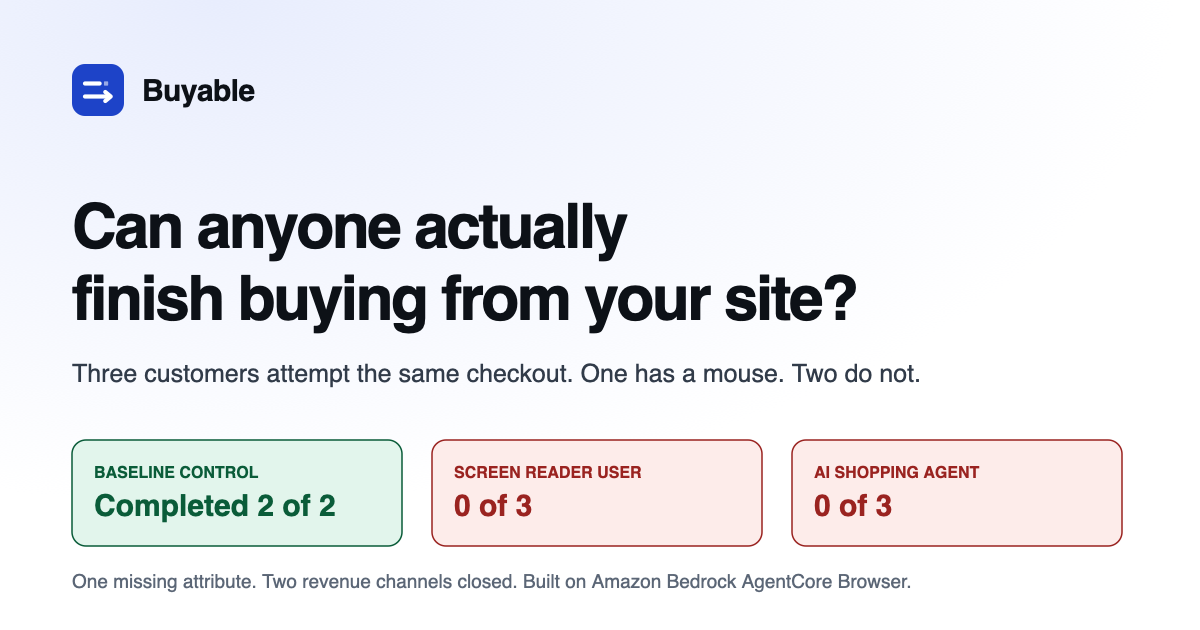
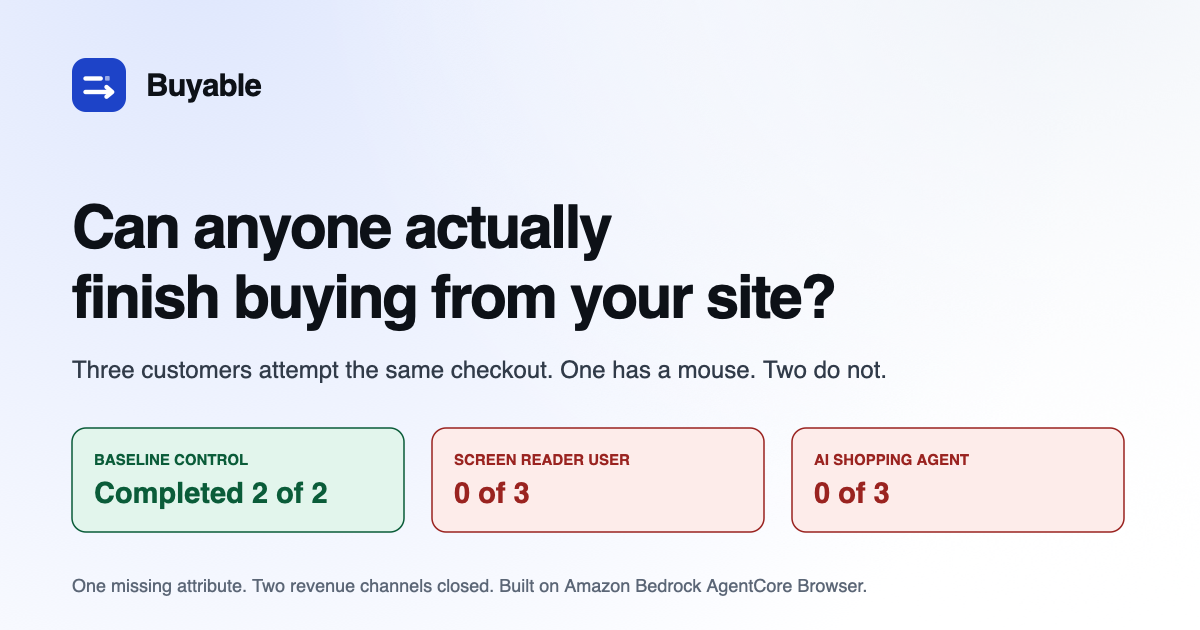
Fix the white strip across the top of the cover and social images
The wash was drawn behind the content only, so it started below the crop line
and left a band of plain white across the top of both finished images. It now
covers the whole canvas, which is the only size that is guaranteed to survive
a crop.

The source SVG is kept at docs/assets/cover.svg rather than regenerated from
memory each time. It is authored square on purpose: the renderer pads a
non-square SVG to a square and rescales it to fit, which crops the artwork, so
the deliverable is the centre band of a square file.

diff --git a/docs/submission.md b/docs/submission.md
@@ -66,7 +66,13 @@ a notebook that exists to look thorough costs credibility.
 
 ## Cover image
 
-`docs/submission-cover.png`, 1200 by 675, 387 KB. Under the 2 MB limit.
+`docs/submission-cover.png`, 1200 by 675, 623 KB. Under the 2 MB limit.
+
+The source is [assets/cover.svg](assets/cover.svg), authored square because the
+renderer pads a non-square SVG and rescales it, which crops the artwork. The cover is
+the centre band. The wash covers the whole canvas rather than only the band, because
+when it was drawn behind the content alone it stopped short of the crop line and left
+a white strip across the top of the finished image.
 
 ---
 
